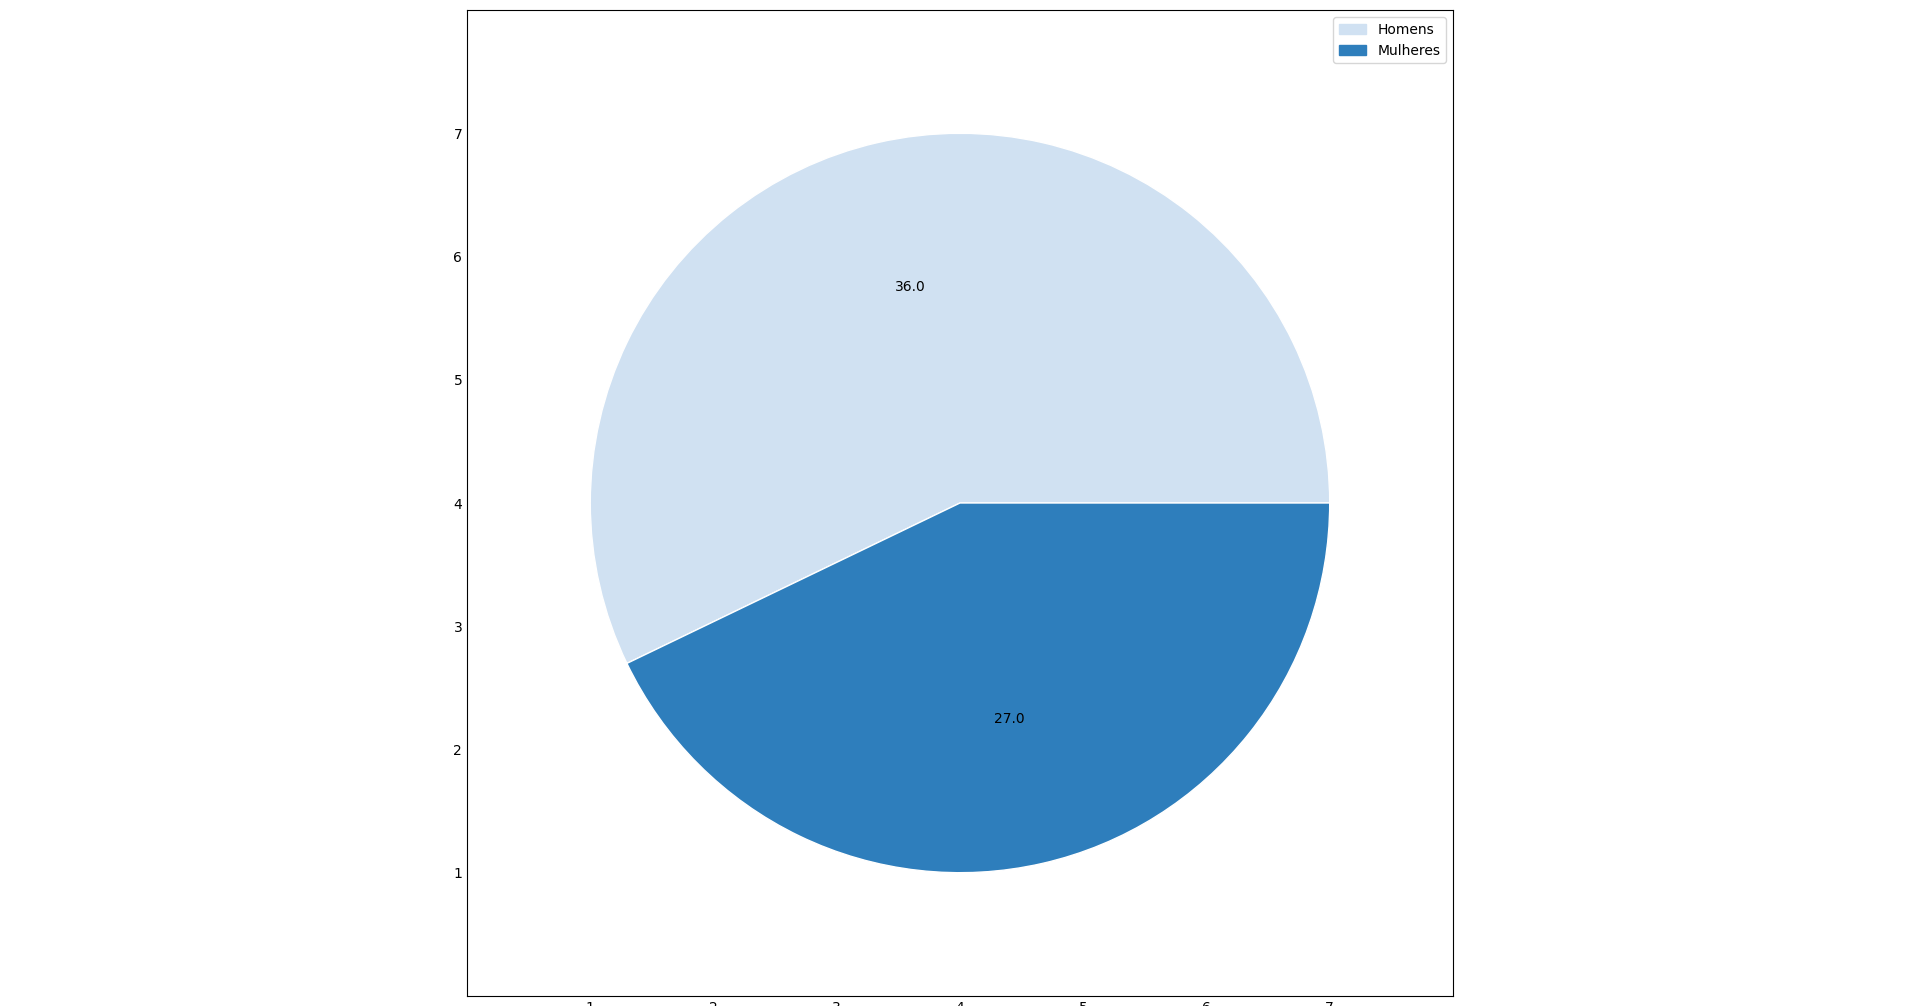
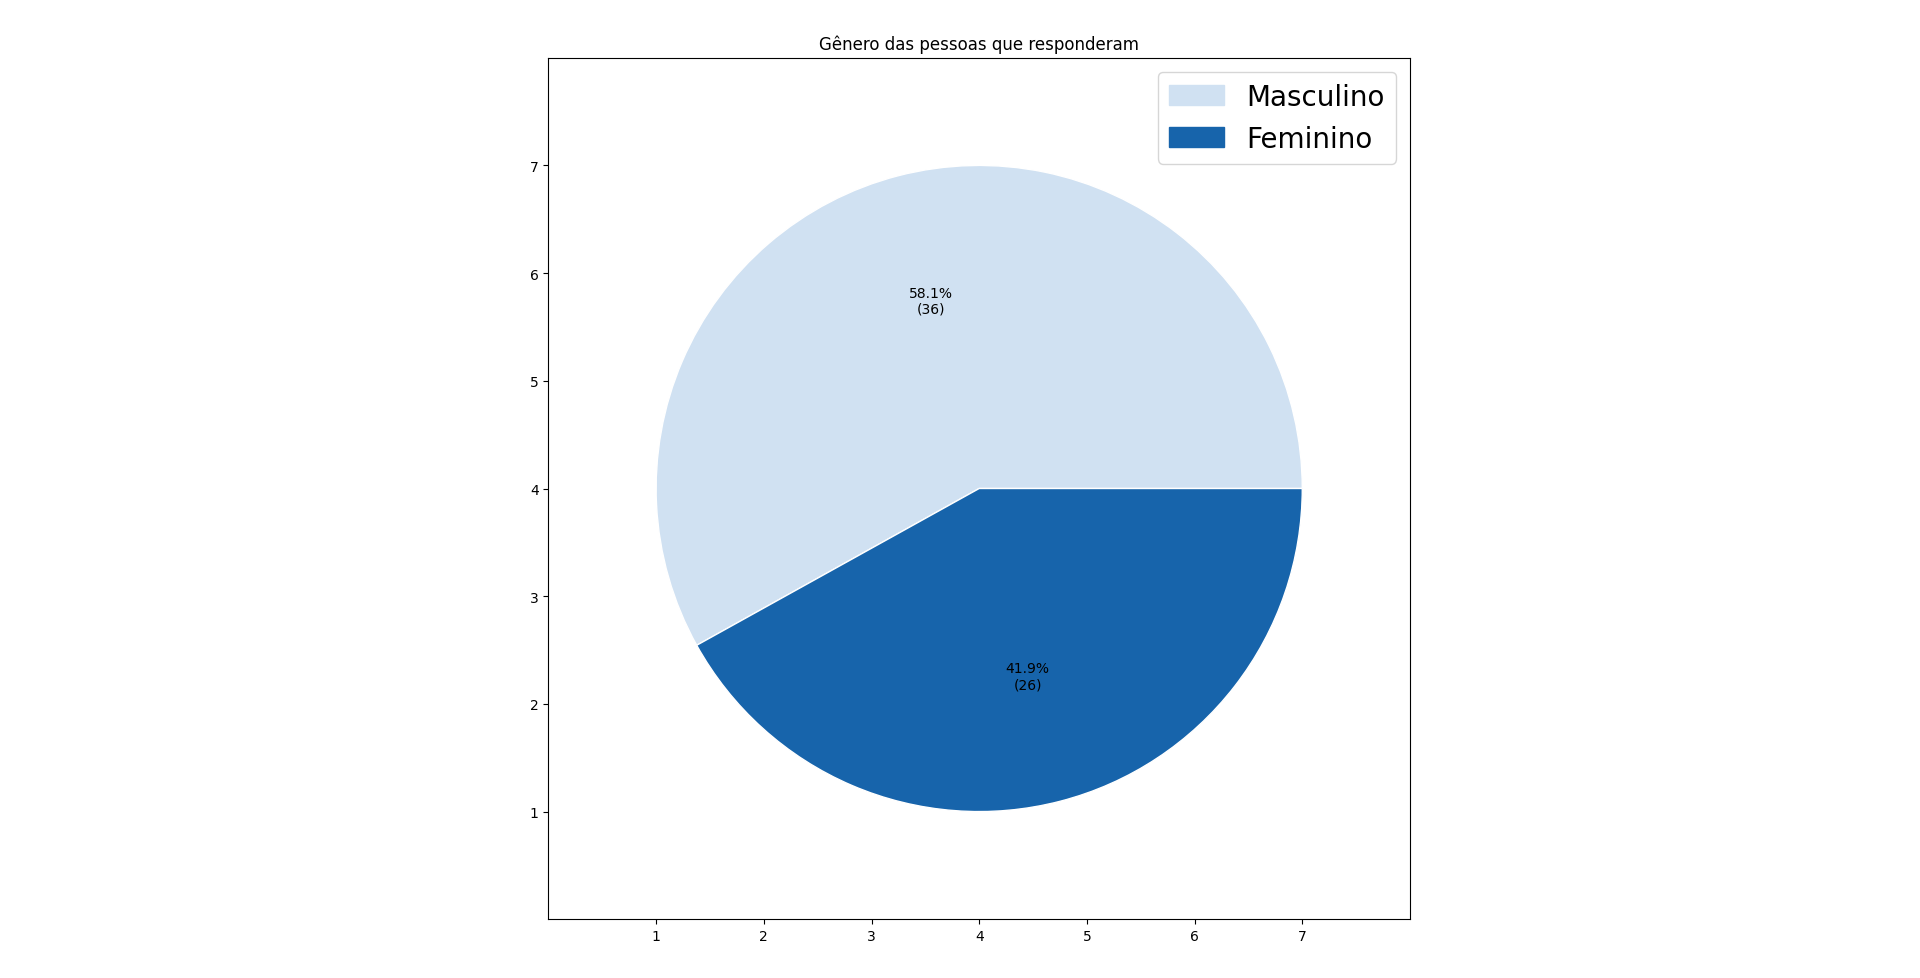
salvando pra nao perder

diff --git a/src/questions.py b/src/questions.py
@@ -7,9 +7,9 @@ import utils.dataset as dataset
 import utils.filters as filters
 import utils.plot as plot
 
-# HIPOTESES:
+# PERGUNTAS:
 # 1: A maioria dos estudantes que trabalha estuda pela noite?
-def confirm_hpt_1() -> dict:
+def question1() -> dict:
     """
     Variavel independente: Se o estudante trabalha (Sim/Não)
     Variavel dependente: Periodo de estudo (Vespertino/Noturno)
@@ -55,8 +55,8 @@ def confirm_hpt_1() -> dict:
     return {
         "work_stdy_vespertine": trabalha_e_vespertino,
         "work_stdy_night": trabalha_e_noturno,
-        "dont_work_stdy_vespertine": nao_trabalha_e_vespertino,
-        "dont_work_stdy_night": nao_trabalha_e_noturno,
+        # "dont_work_stdy_vespertine": nao_trabalha_e_vespertino,
+        # "dont_work_stdy_night": nao_trabalha_e_noturno,
     }
 
 
@@ -64,10 +64,11 @@ def confirm_hpt_1() -> dict:
 #     pass
 
 
-# HIPOTESE 2:
-# O NUMERO DE ESTUDANTES QUE USAM INTERNET ATRAVES DE DISPOSITIVOS MOVEIS EH MAIOR QUE OS QUE USAM VIA DESKTOP/ PC DE MESA
-def confirm_hpt_2(dispositivos_mais_usados: dict):
+# PERGUNTA 2:
+# O NUMERO DE ESTUDANTES QUE USAM INTERNET ATRAVES DE DISPOSITIVOS MOVEIS É MAIOR QUE OS QUE USAM VIA DESKTOP/ PC DE MESA
+def question2(dispositivos_mais_usados: dict):
     valor_mais_usado = max(dispositivos_mais_usados, key=dispositivos_mais_usados.get)
+    print(valor_mais_usado)
     return valor_mais_usado
 
     # print("valor_mais_usado")
@@ -91,15 +92,17 @@ if __name__ == "__main__":
     dispositivo_mais_usado = most_used_device.get_most_used_device()
     confirm_hpt_2(dispositivo_mais_usado)
     """
-    hpt1 = confirm_hpt_1()
+    q1 = question1()
     plot.pie(
         title="A maioria dos estudantes que trabalha estuda de noite?", 
-        data = hpt1, 
+        data = q1, 
         legend= {
-            "work_stdy_vespertine": "trabalha e estuda de noite", 
-            "work_stdy_night": "trabalha e estuda de dia", 
-            "dont_work_stdy_vespertine": "nao trabalha e estuda de noite", 
-            "dont_work_stdy_night": "nao trabalha e estuda de dia"
+            "work_stdy_vespertine": "trabalha e estuda de dia", 
+            "work_stdy_night": "trabalha e estuda de noite", 
+            # "dont_work_stdy_vespertine": "nao trabalha e estuda de dia", 
+            # "dont_work_stdy_night": "nao trabalha e estuda de noite"
         }, 
         color_type=plot.COLOR_TYPE_RAINBOW
     )
+
+    q2 = question2()

diff --git a/src/analysis/time_wasted.py b/src/analysis/time_wasted.py
@@ -1,0 +1,61 @@
+import _fix_import
+
+import utils.dataset as dataset
+import utils.filters as filters
+import utils.plot as plot
+
+QUESTION = "Em geral, quanto tempo por dia você permanece conectado à Internet em horas?"
+
+def avg_time_spent():
+    return filters.answers(dataset.file, QUESTION)
+
+def time_spent():
+    return filters.filter_hours(dataset.file, QUESTION, {
+        "4": "4 horas",
+        "5": "5 horas", 
+        "6": "6 horas", 
+        "7": "7 horas", 
+        "8": "8 horas", 
+        "9": "9 horas", 
+        "10": "10 horas", 
+        "11": "11 horas", 
+        "12": "12 horas", 
+    }
+)
+
+if __name__ == "__main__":
+    time_spent_ = dict(sorted(avg_time_spent().items(), key=lambda item: item[0]))
+    time_spent_keys = avg_time_spent().keys()
+    time_spent_values = avg_time_spent().values()
+    print("time spent = ",time_spent_)
+    print("time spent keys= ",time_spent_keys)
+    print("time spent values= ",time_spent_values)
+    plot.bar(
+        title=QUESTION,
+        data=time_spent_,
+        color_type=plot.COLOR_TYPE_RAINBOW,
+        legend={
+            "4": "4 horas",
+            "5": "5 horas", 
+            "6": "6 horas", 
+            "7": "7 horas", 
+            "8": "8 horas", 
+            "9": "9 horas", 
+            "10": "10 horas", 
+            "11": "11 horas", 
+            "12": "12 horas", 
+        },
+        use_grid=True
+    )
+    # times = {}
+    # for row in dataset.file[QUESTION]:
+    #     times.update({str(row)+" hora(s)":row})
+
+    # print(times)
+    # plot.bar(
+    #     title=QUESTION,
+    #     data=time_spent,
+    #     legend=times,
+    #     color_type=plot.COLOR_TYPE_RAINBOW,
+    #     use_grid=True,
+    # )

diff --git a/src/utils/plot.py b/src/utils/plot.py
@@ -71,10 +71,6 @@ def pie(
 ):
     (new_data, handlers, colors, _) = chart_header(data, legend, color_type)
 
-
-    def absolute_value(value):
-        sizes = np.array([item for item in data.values()])
-        return np.round(value / 100.0 * sizes.sum(), 0)
     fig, ax = plt.subplots()
 
     def func(pct, allvals):
@@ -109,7 +105,7 @@ def pie(
     ) """
 
 
-    ax.legend(handles=handlers, title=legend_title)
+    ax.legend(handles=handlers, title=legend_title, fontsize=20)
 
     plt.subplots_adjust(
         left=0.1 if y_label else 0.08,
@@ -124,15 +120,24 @@ def pie(
 def bar(
     title: str,
     data: dict,
+    use_grid: bool = False,
     legend: list = None,
     legend_title=None,
     x_label=None,
     x_label_item=None,
     y_label=None,
+    xlim=None,
+    ylim=None,
+    xticks=None,
+    yticks= None,
     color_type=COLOR_TYPE_BLUE,
 ):
-    plt.style.use('_mpl-gallery')
     (new_data, handlers, colors, max_value) = chart_header(data, legend, color_type)
+    
+    if use_grid:
+        plt.style.use('_mpl-gallery')
+    else:
+        plt.style.use('_mpl-gallery-no-grid')
 
     if type(x_label_item) == str:
         x_label_item = ["%d%s" % (i, x_label_item) for i in range(len(new_data))]
@@ -158,10 +163,10 @@ def bar(
         ax.set_xlabel(x_label)
 
     ax.set(
-        xlim=(0, 1),
-        xticks=np.arange(1, len(new_data) + 1),
-        ylim=(0, max_value + 1),
-        yticks=np.arange(0.1, max_value + 2),
+        xlim=xlim if xlim else (0, 1),
+        xticks=xticks if xticks else np.arange(1, len(new_data) + 1),
+        ylim=ylim if ylim else (0, max_value + 2),
+        yticks=yticks if yticks else np.arange(1, max_value + 2),
     )
 
     if legend:

diff --git a/src/utils/filters.py b/src/utils/filters.py
@@ -1,16 +1,32 @@
 def study_hours(file) -> list:
     real_answers = []
     for answer in file["Tempo de estudo diário horas"]:
-        # print(type(answer))
         filtered_answer = str(answer).split("horas")[0]
         real_answers.append(int(filtered_answer))
     return real_answers
+
+def time_wasted_on_internet(file) -> list:
+    real_answers = {}
+    for answer in file["Em geral, quanto tempo por dia você permanece conectado à Internet em horas?"]:
+        filtered_answer = str(answer).split("horas")[0]
+        real_answers.update({int(filtered_answer)})
+    return real_answers
+
+def filter_hours(file, column_title:str) -> list:
+    real_answers = {}
+    for answer in file[column_title]:
+        filtered_answer = str(answer).split("horas")[0]
+        real_answers[filtered_answer] = 1 if filtered_answer not in real_answers.keys() else real_answers[filtered_answer] + 1 
+    return real_answers
+
 
 
 def answers(file, column, map_key=None):
     rows = file[column]
     result = {}
     for row in rows:
+        if str(row).endswith("horas"):
+            row = int(str(row).split("horas")[0])
         key = map_key[row] if map_key != None and row in map_key else row
         result[key] = 1 if key not in result.keys() else result[key] + 1
     return result

diff --git a/src/analysis/study_hours.py b/src/analysis/study_hours.py
@@ -55,7 +55,7 @@ def plot_stdy_hours_frequencies(occurrences: dict):
 
 
 def run():
-    stdy_hrs = filters.study_hours(dataset.file)
+    stdy_hrs = filters.filter_hours(dataset.file, "Em geral, quanto tempo por dia você permanece conectado à Internet em horas?")
     stdy_hours_frequencies = get_study_hours_frequencies(stdy_hrs)
     # stdy_hours_frequencies = dict(sorted(stdy_hours_frequencies.items()))
     print(stdy_hours_frequencies)
@@ -64,10 +64,13 @@ def run():
     plot.bar(
         title="Numero medio de estudo em horas",
         data=stdy_hours_frequencies,
-        legend_title="Valor médio do tempo dedicado aos estudos pelos participantes",
+        use_grid=True,
+        legend_title="Tempo dedicado aos estudos pelos participantes",
         color_type=plot.COLOR_TYPE_RAINBOW,
         y_label="Quantidade de ocorrências/respostas",
-        x_label_item=["%d hr(s)" % item for item in list(stdy_hours_frequencies.keys())],
+        x_label_item=[str(item)+" hrs()" for item in sorted(list(stdy_hours_frequencies.keys()))],
+        xlim = (-1,1),
+        xticks = np.arange(0, len(stdy_hours_frequencies) + 1)
     )
 
     # print("trend value in stdy hours:", get_trend_study_hours(stdy_hours_frequencies))

diff --git a/src/analysis/work.py b/src/analysis/work.py
@@ -10,7 +10,7 @@ import utils.plot as plot
 
 def do_you_work():
     return filters.answers(
-        dataset.file, "Você trabalha?", {"Não": "not_working", "Sim": "working"}
+        dataset.file, "Você trabalha?", {"Sim": "working", "Não": "not_working"}
     )
 
 
@@ -19,9 +19,10 @@ def run():
 
     plot.bar(
         title="Distribuição considerando os alunos que trabalham e não trabalham",
+        use_grid=True,
         legend={
-            "working": "Trabalham",
             "not_working": "Não trabalham",
+            "working": "Trabalham",
         },
         data=dist_working_not_working,
         legend_title="Distribuicao entre alunos que trabalham/não trabalham",

diff --git a/src/analysis/study.py b/src/analysis/study.py
@@ -18,6 +18,7 @@ def get_avg_study_hours(answers_in_hours: list) -> float:
     return sum / len(answers_in_hours)
 
 
+
 def run():
     filtered_answers_study_hours = filters.study_hours(dataset.file)
     avg_study_hours = get_avg_study_hours(filtered_answers_study_hours)
@@ -28,6 +29,7 @@ def run():
         legend_title="Valor médio do tempo dedicado aos estudos pelos participantes",
         legend={"average": "Média de horas de estudo"},
         color_type=plot.COLOR_TYPE_RAINBOW,
+        use_grid=True,
     )
 
 

diff --git a/src/analysis/males_females.py b/src/analysis/males_females.py
@@ -17,8 +17,8 @@ def number_of_male_female():
 def run():
     male_female = number_of_male_female()
     plot.pie(
-        title="Homes e Mulheres",
-        legend={"males": "Homens", "females": "Mulheres"},
+        title="Gênero das pessoas que responderam",
+        legend={"males": "Masculino", "females": "Feminino"},
         data=male_female,
     )
 

diff --git a/src/analysis/time_in_years.py b/src/analysis/time_in_years.py
@@ -1,0 +1,15 @@
+import _fix_import
+
+import utils.dataset as dataset
+import utils.filters as filters
+import utils.plot as plot
+
+QUESTION = "Há quanto tempo utliliza computador em anos"
+
+def get_answers():
+    return filters.answers(dataset.file, QUESTION)
+
+
+if __name__ == "__main__":
+    time_in_years = get_answers()
+    print(time_in_years)

diff --git a/src/analysis/student_period.py b/src/analysis/student_period.py
@@ -22,7 +22,7 @@ def get_period() -> dict:
 def run():
     student_periods = get_period()
     plot.pie(
-        title="Dispositivos mais usados",
+        title="Período",
         legend={
             "students_verspetine_counter": "Vespertino",
             "students_night_counter": "Noturno",

diff --git a/src/analysis/habitation.py b/src/analysis/habitation.py
@@ -26,7 +26,7 @@ def run():
     habitation = who_do_you_live_with()
 
     plot.pie(
-        title="Habitação",
+        title="Mora com quem?",
         legend={"parents": "Pais", "solo": "Só", "friends": "Amigos"},
         data=habitation,
     )

diff --git a/src/analysis/family_income.py b/src/analysis/family_income.py
@@ -38,6 +38,7 @@ def run():
             "between_5_6": "Entre 5 e 6 salários mínimos",
             "more_then_6": "Mais de 6 salários mínimos",
         },
+        use_grid=True,
         color_type=plot.COLOR_TYPE_RAINBOW,
     )
 
